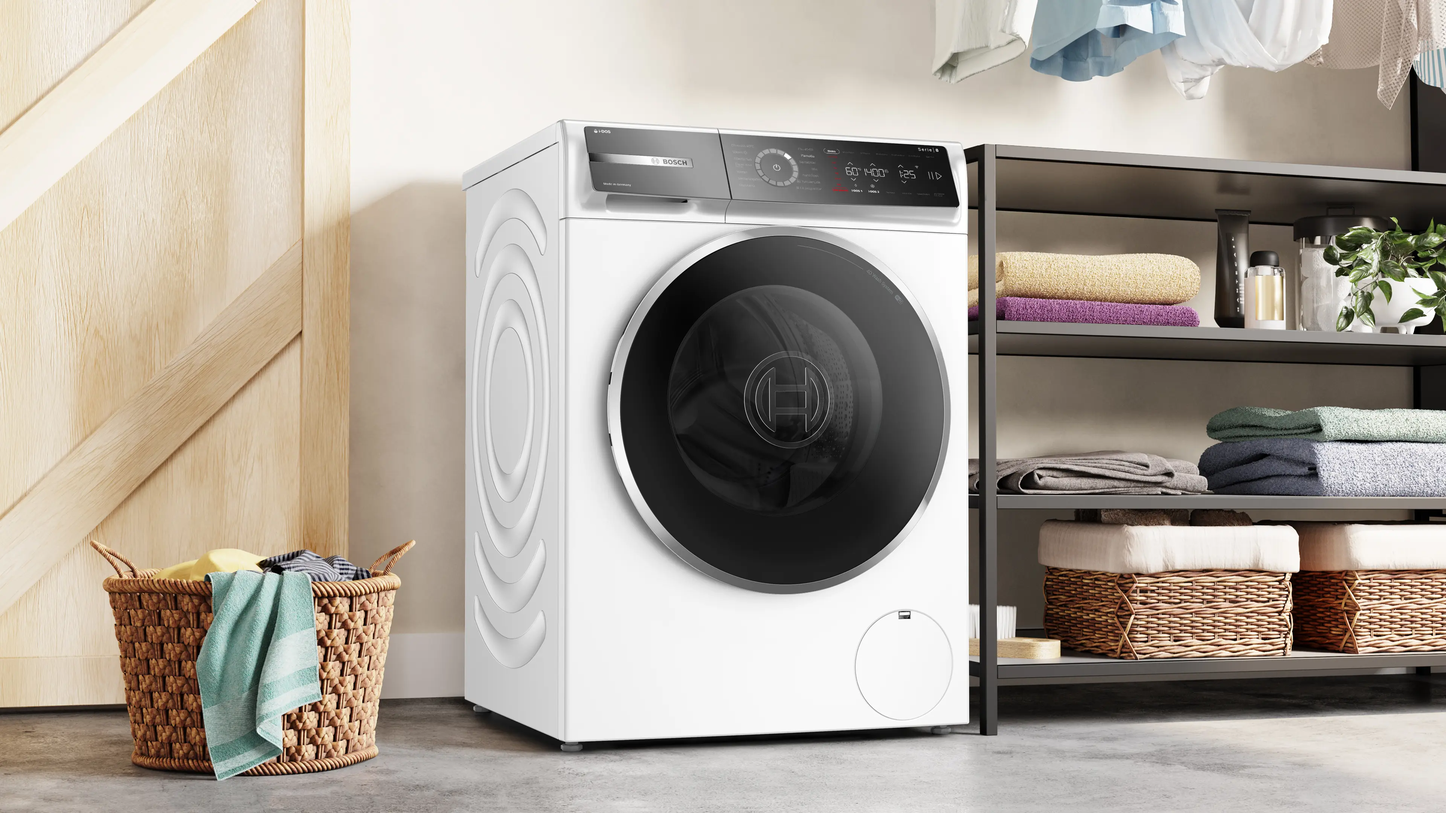
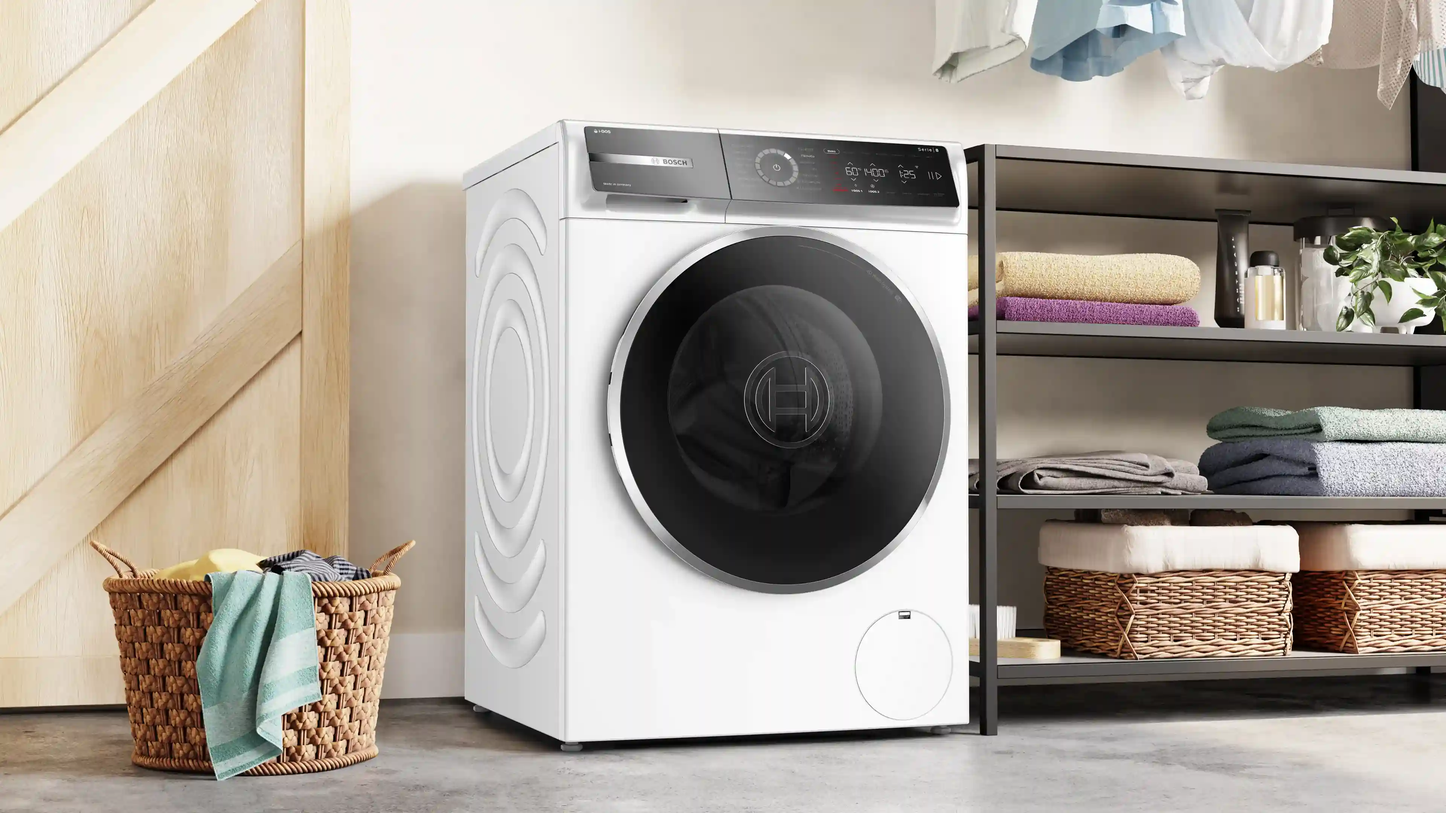
instawebp

Changed region(s): [[0.6875, 0.3102, 0.8125, 0.4032], [0.9375, 0.7134, 1.0, 0.7755], [0.2188, 0.7134, 0.25, 0.7444]]

diff --git a/index.html b/index.html
@@ -889,7 +889,7 @@ class="hero-video mobile-video">
                    target="_blank"
                    rel="noopener noreferrer"
                    class="instagram-card">
-                    <img src="images/instagram/insta1.jpg" alt="">
+                    <img src="images/instagram/insta1.webp" alt="">
                 </a>
 
                 <a href="https://www.instagram.com/sdteknolojiantalya"
